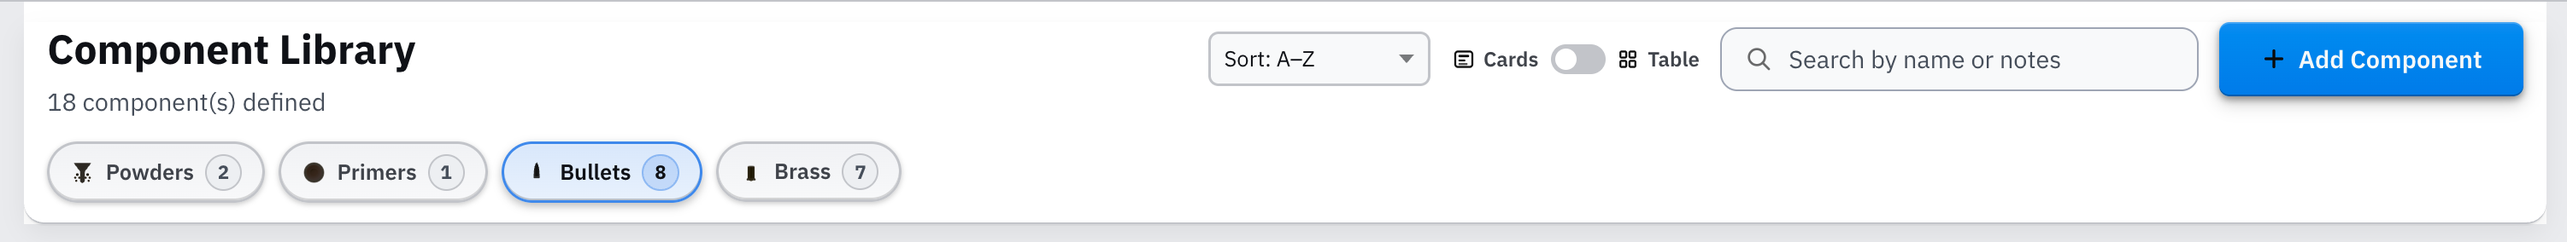
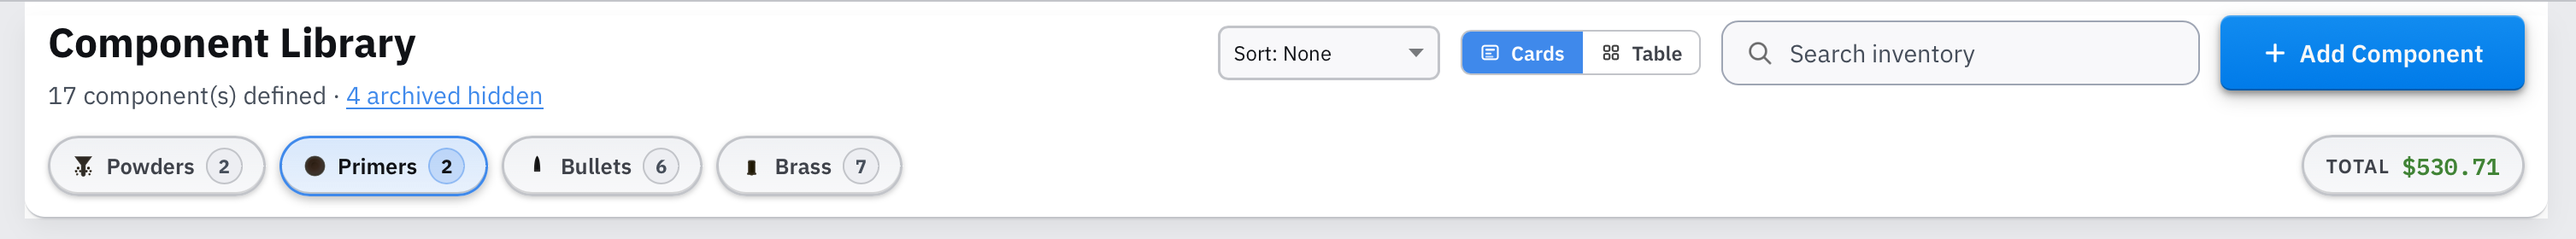
Updated images for version 2.16.1

diff --git a/README.md b/README.md
@@ -1,4 +1,4 @@
-# Reloading Tracker 2.16.0: User Guide
+# Reloading Tracker 2.16.1: User Guide
 
 Reloading Tracker is your complete bench-to-range companion. It starts as a production log: define your loads, record every pressing session with a unique lot number, and print a label for every box on your shelf.
 
@@ -7,7 +7,7 @@ It grows with you from there. Keep one inventory of your components. Work up new
 If you also care about costs, the app covers that too. Compare your reloads with factory ammunition, track how close you are to paying off your equipment, and see a side-by-side cost breakdown for any mix of loads. This part is optional; plenty of reloaders just want the log and the data.
 
 
-> **DOWNLOAD:** A desktop version is available from the releases page: [**latest version**](https://github.com/fmalpartida/reloading-cost-calculator/releases/tag/v2.16.0). All previous versions are available [here](https://github.com/fmalpartida/reloading-cost-calculator/releases).
+> **DOWNLOAD:** A desktop version is available from the releases page: [**latest version**](https://github.com/fmalpartida/reloading-cost-calculator/releases/tag/v2.16.1). All previous versions are available [here](https://github.com/fmalpartida/reloading-cost-calculator/releases).
 
 
 Want to try it out first?
@@ -227,7 +227,7 @@ Click **Add Ammo** in the top-right corner, or the **+** button in the **Reloads
 - Brass description, price, quantity, and how many times each case will be reloaded before replacement. The cost per round is divided by this reuse count.
 
 **Stock**
-- Rounds in hand come from the Journal. Each lot you press for this load adds rounds, and rounds you log against those lots in the Range Log are taken off. Archived lots don't count. The only field here is **Alert Below (rounds)**: when rounds in hand fall to or below this number, the card's stock pill turns orange and the table shows a **Low** badge.
+- Rounds in hand come from the Journal. Each lot you press for this load adds rounds, and rounds you log against those lots in the Range Log are taken off. Archived lots don't count. The only field here is **Alert Below (rounds)**: when rounds in hand fall to or below this number, the stock pill turns orange.
 
 **Sales Tax**
 - The sales tax percentage applied to your total component cost.
@@ -244,7 +244,7 @@ Click **Add Ammo** or the **+** button in the **Factory** section header. The Ed
 
 **Stock** *(optional)*
 - Tracks how many rounds of this ammo you have left. Enter the number of boxes you bought in **Add Boxes** and click **Add** (or just save). Boxes add up in the **Lifetime total** shown below the field. To fix a mistake, such as adding a box twice, enter a negative number and click **Add**. The total never goes below zero.
-- **Alert Below (boxes)**: optional threshold. When the rounds remaining fall to or below this many boxes, the card's stock pill turns orange and a **Low** badge appears in the table.
+- **Alert Below (boxes)**: optional threshold. When the rounds remaining fall to or below this many boxes, the stock pill turns orange.
 - Rounds remaining = *Lifetime total × Rounds per Box*, minus every round of this ammo logged in the Range Log. That includes sessions logged before you started tracking stock.
 - While stock is tracked, the **Live Preview** shows the boxes and rounds in hand, with a **Low** badge when you're below your alert. It updates as you type, before you save.
 - To skip stock tracking for this ammo, leave **Add Boxes** empty. Stock stays hidden until you add at least one box.
@@ -265,28 +265,31 @@ Click **Add Ammo** or the **+** button in the **Factory** section header. The Ed
 
 ### 2.3 Managing Ammo Entries
 
-Each ammo card has four action buttons in its top-right corner:
+Each ammo card and table row has these actions in its top-right corner:
 
 | Button | Action |
 |--------|--------|
 | ✏ Edit | Opens the entry in the Editor tab |
-| ⧉ Duplicate | Creates a copy of the entry (useful for variants of the same load) |
-| 🖨 Print | Opens the label print dialog for this load, without a pre-filled lot number or quantity |
-| 🗑 Delete | Permanently removes the entry |
+| 🖨 Print | For reloads, lets you print a label or the data sheet. Factory ammo opens its data sheet straight away. |
+| ⋯ More | **Duplicate** (useful for variants of the same load), **Set to** another status, and **Delete**. |
 
-Click the **▸ / ▾** chevron on the left of the action buttons to expand a card and see the full component cost breakdown.
+Delete asks you to confirm and names the load. If the load has Journal history, the dialog also offers **Retire instead**, which hides it and keeps that history.
+
+Click the **▸ / ▾** chevron on the left of the action buttons to expand a card and see the full component cost breakdown. Click the small arrow at the left of the **Reloads** or **Factory** header to collapse that whole section; the app remembers it.
 
 Use the **Search** box to filter cards by name, caliber, type, or component name.
 
 When the **Reloads** or **Factory** section holds more than one caliber, a **caliber filter** appears in its header. Each section filters on its own: you can show only your 6.5 Creedmoor reloads and still see all factory ammo. The filter works with search and the retired toggle, and the count at the top follows it. If nothing is left to show, click **Clear Filters** to reset the search and both filters.
 
-Switch between **Card** and **Table** view with the toggle next to the search box. Table view is denser and easier to scan when you have many entries.
+Switch between **Cards** and **Table** with the buttons next to the search box. Table view is denser and easier to scan when you have many entries. In card view, the sort menu picks both the field and the direction, for example **Price: low to high**. In table view, click a column header to sort.
+
+When any ammo is at or below its alert, or out of stock, a **Low stock** tag appears under the title. Click it to see only what you need to press or buy.
 
 **Stock display**
 
 Ammo that tracks stock shows a **stock pill** on the card and a **Stock** column in table view. Factory ammo shows rounds and boxes left, e.g. *250 rds (5 boxes) left* (see [2.2](#22-adding-a-factory-ammo-entry)). Reloads show the rounds left in their active Journal lots, e.g. *240 rds left*, which matches the Journal's **Remaining** column (see [2.1](#21-adding-a-reload-entry)). Ammo with no stock tracked shows nothing.
 
-On the card, the pill sits at the right end of the card. Its color shows where you stand: **green** while you have stock, **orange** at or below your **Alert Below** threshold, and **red** at zero. In table view, a **Low** badge marks the threshold. Hover over the pill to see how the number is worked out.
+On the card, the pill sits at the right end of the card. Its color shows where you stand: **green** while you have stock, **orange** at or below your **Alert Below** threshold, and **red** at zero. The table view shows the same pill. Hover over the pill to see how the number is worked out.
 
 ![Screenshot: Expanded ammo card showing component breakdown](images/ammo-viewer.png)
 
@@ -316,14 +319,14 @@ Every ammo entry has a **status** that shows where it is in your development cyc
 | **Retired** | Recipe superseded or no longer in use. Hidden from default views but preserved in all history and journal entries. |
 
 **Changing the status**
-- In card view: expand the card (▸) and use the **Status** selector at the top of the expanded body.
+- In card view: open the card's **⋯** menu and pick **Set to** a status, or expand the card (▸) and use the **Status** selector. Each status in the selector has a one-line description.
 - In table view: use the **Status** dropdown in the Status column.
 - In the Editor: the Status field appears in the Ammo Information section next to the load type.
 
 ![Screenshot: Load Editor showing expanded load status](images/load-editor-status.png) 
 
 **Retired loads**
-Retired entries are hidden by default. When a section has retired entries, a **"N retired"** link appears in its header bar. Click it to show them; click **"hide retired"** to hide them again.
+Retired entries are hidden by default. When a section has retired entries, a **"N retired"** link appears in its header bar. Click it to show them; click **"hide retired"** to hide them again. If every load is retired, the page says so and offers a button to show them.
 
 ![Screenshot: Ammo card showing expanded load status](images/load-card-status.png)
 
@@ -424,12 +427,12 @@ When you print a load's **Data Sheet** from My Ammo, it includes the Charge Work
 
 ### 2.4 Default Taxes & Fees
 
-The **Default Taxes** panel at the top of My Ammo sets the tax values filled in on every new entry.
+The **Default Taxes** panel at the top of My Ammo sets the tax values filled in on every new entry. It shows as a one-line summary; click **Edit** to change the values and **Done** to fold it away again.
 
 - **Reload**: sales tax percentage applied to reload component costs.
 - **Factory**: sales tax %, excise tax %, fixed fee amount, and the number of rounds that fee covers.
 
-Click **Apply to All** to apply the current defaults to every existing entry.
+Click **Apply to All** to apply the current defaults to every existing entry. You'll be asked to confirm, with the number of loads it will change.
 
 ![Screenshot: Default Taxes panel](images/default-taxes.png)
 
@@ -470,7 +473,7 @@ Factory entries take the same gauge, shell length, and projectile, plus optional
 
 There are eight component types: **Powder**, **Primer**, **Bullet**, and **Brass** for cartridges, plus **Hull**, **Wad**, **Shot**, and **Slug** for shotshells. Each type has its own section, with a colored edge that matches its icon.
 
-**Filter tags** at the top narrow the list to one type. Click a tag to filter; click it again to clear.
+**Filter tags** at the top narrow the list to one type. Click a tag to filter; click it again to clear. When anything is at or below its alert, or out of stock, a **Low stock** tag appears too. Click it to see only what you need to buy.
 
 ![Screenshot: My Components: filter tags and grouped sections](./images/inventory-filter-tags.png)
 
@@ -478,7 +481,7 @@ Use the **Search** box to find components by name or notes.
 
 The **Bullets**, **Brass**, and **Hulls** sections get a **caliber filter** in their header (gauge for hulls) once they hold more than one caliber. Each section filters on its own, and its cash total follows the selected caliber.
 
-Like My Ammo, My Components has **Card** and **Table** views.
+Like My Ammo, My Components has **Cards** and **Table** views. Click the small arrow at the left of a section header to collapse it; the app remembers it.
 
 ### 3.1 Adding a Component
 
@@ -540,7 +543,7 @@ How much you have now. The unit depends on the type:
 Leave it blank to skip stock tracking. Only components with stock set can be deducted from the Journal.
 
 **Alert below** *(optional)*  
-A low-stock threshold, in the same unit as **Stock on hand**. At or below it, the card shows a **Low** badge. It's only a reminder; nothing is blocked.
+A low-stock threshold, in the same unit as **Stock on hand**. At or below it, the stock pill turns orange. It's only a reminder; nothing is blocked.
 
 **Lot #** *(optional)*  
 The manufacturer's lot code for the batch you have on hand, e.g. *VG-2291*. New Journal entries record it automatically (see [5.1](#51-logging-a-session)), so update it when you open a new jug of powder or box of primers.
@@ -552,10 +555,9 @@ Click **Save**. The card appears in its section right away.
 Each component card shows:
 - Component name and type icon
 - **Price**: the cost per unit (e.g. *$22.50/lb*, or *$0.16 ea* for a primer). The form keeps the price and quantity you entered; the card and table show only the per-unit cost.
-- **Stock**: quantity on hand, if you entered one. Powder shows four decimal places; other types show a whole number. A **Low** badge appears at or below the threshold.
+- **Stock**: a pill at the top of the card, if you track stock. It's **green** while you have stock, **orange** at or below your alert, and **red** at zero, the same as My Ammo. Powder and shot show two decimals; hover over the pill for the exact amount and your alert level.
 - **Lot**: the lot number on hand, shown only when one has been entered.
-- Brass **Reloads** count (brass cards only)
-- Bullet **caliber**, **diameter**, **weight**, and **OAL** (bullets only)
+- A one-line spec summary under the name, e.g. *124 gr · .355 · 9mm Luger · OAL 1.169 in* for a bullet, or *9mm Luger · 5× reloads* for brass
 - Notes (if any)
 
 Brass with **Consistency & Fit** or **Annealing** data shows a **Details** row with an icon for each: a ruler for Consistency & Fit, a flame for Annealing. Hover over an icon to see the details.
@@ -564,14 +566,13 @@ Brass with **Consistency & Fit** or **Annealing** data shows a **Details** row w
 
 ### 3.2 Managing Components
 
-Each component card has four action buttons:
+Each component card and table row has these actions:
 
 | Button | Action |
 |--------|--------|
 | ✏ Edit | Opens the component for editing. The type can't be changed. |
-| ⧉ Duplicate | Makes a copy with *(copy)* added to the name, handy when a component comes in several package sizes. A copy of an archived component is active. |
 | 📦 Archive | Retires the component without deleting it. Becomes **Restore** on an archived component. See below. |
-| 🗑 Delete | Removes the component for good. Loads linked to it keep their last values but are no longer linked. |
+| ⋯ More | **Duplicate** makes a copy with *(copy)* added to the name, handy when a component comes in several package sizes. **Delete** removes it for good; linked loads keep their last values but are no longer linked. |
 
 ![Screenshot: Inventory card action buttons](./images/inventory-card-actions.png)
 
@@ -583,19 +584,19 @@ When anything is archived, the count under the page title ends with an **"N arch
 
 ![Screenshot: Archived components, showing archived component tag and link to hide them at the top.](./images/archived-components.png)
 
-In **Table view**, the **Stock** column shows the quantity on hand with its unit (*primers*, *rounds*, *cases*, *hulls*, *wads*, *slugs*, *lb*, or *kg*), or a dash if not set. A **Low** badge appears at or below the threshold. The **Lot #** column shows the lot number, or a dash.
+In **Table view**, the **Stock** column shows the same colored pill, with its unit (*primers*, *rounds*, *cases*, *hulls*, *wads*, *slugs*, *lb*, or *kg*), or a dash if not set. The **Lot #** column shows the lot number, or a dash.
 
 For brass, an **Info** column holds the same Consistency & Fit and Annealing icons as the cards.
 
 **Sorting**
 
-In **Card view**, the **Sort** dropdown orders components by **A–Z**, **Price**, **Stock**, or **None** (the order you added them). The arrow next to it flips the direction.
+In **Card view**, the sort menu orders components by name, price, or stock, in either direction (for example **Stock: low to high**), or **None** (the order you added them).
 
 In **Table view**, click the **Name**, **Price**, or **Stock** column header instead. Each click cycles through ascending, descending, and no sort. Switching views resets the sort to **None**.
 
 **Photo thumbnails**
 
-Components with a photo (see [3.1](#31-adding-a-component)) show it as a thumbnail in place of the type icon on the card, or in the table's Photo column. Hover over it to see the name, type, price, stock, lot number, and key specs.
+Components with a photo (see [3.1](#31-adding-a-component)) show it as a thumbnail in place of the type icon on the card, or in the table's Photo column. Hover over it, or tab to it and press Enter, to see the name, type, price, stock, lot number, and key specs.
 
 ![Screenshot: My Components card and table showing a photo thumbnail and hover popup](./images/inventory-photo-popup.png)
 
@@ -643,14 +644,14 @@ Click **Add Firearm** in the top-right corner. The dialog has a **Firearm** sect
 | Field | Required | Description |
 |-------|----------|-------------|
 | **Name** | Yes | A name for the firearm, e.g. *Remington 700 SPS*, *Glock 17 Gen 5*. |
+| **Caliber** | No | The cartridge it's chambered in, e.g. *.308 Win*, *9mm Luger*, *12 ga*. The list follows the Firearm Type. Used for grouping and the caliber filter chips. |
 | **Firearm Type** | No | Broad category: **Rifle**, **Handgun**, **Shotgun**, or **Other**. |
 | **Action Type** | No | Operating mechanism: **Bolt**, **Semi-Auto**, **Lever**, **Pump**, **Single Shot**, **Revolver**, or **Other**. |
-| **Caliber** | No | The cartridge it's chambered in, e.g. *.308 Win*, *9mm Luger*, *12 ga*. The list follows the Firearm Type. Used for grouping and the caliber filter chips. |
 | **Barrel Length** | No | Free text, e.g. *24 in*, *16.5"*. |
 | **Twist Rate** | No | e.g. *1:10*, *1:8*. Matters for bullet stability. |
-| **Photo** | No | Upload a photo (iPhone HEIC photos are converted automatically). It's shown as a thumbnail wherever the firearm appears (see 4.4 and 4.5). Click **Remove** to clear it. |
 | **Serial Number** | No | For your own records. |
 | **Price** | No | What you paid for the firearm. |
+| **Photo** | No | Upload a photo (iPhone HEIC photos are converted automatically). It's shown as a thumbnail wherever the firearm appears (see 4.4 and 4.5). Click **Remove** to clear it. |
 
 **Optics** *(optional)*
 
@@ -667,7 +668,7 @@ Fields for the scope or sight mounted on the firearm:
 | **Turret Units** | **MOA** or **MRAD**. |
 | **Zero Distance** | Free text, e.g. *100 yd*. |
 
-Leave the Optics fields blank if there's no optic or you don't want to track it. The app then hides optics for that firearm.
+The Optics section starts closed; click it to open. It opens by itself when you edit a firearm that already has optic details. Leave it blank if there's no optic, and the app hides optics for that firearm.
 
 **Notes**
 
@@ -675,18 +676,17 @@ Any other reference: known issues, purchase date, etc.
 
 Click **Save**. The firearm shows up in the list and in the Range Log's firearm list right away.
 
-
 ![Screenshot: Firearm form dialog showing the Firearm section (Name, Type, Action, Caliber, Barrel, Twist, Photo, Serial, Price) and the Optics section (Manufacturer, Model, Type, Magnification, Focal Plane, Reticle, Turret Units, Zero Distance)](./images/firearm-form-dialog.png)
 
 ### 4.2 Managing Firearm Profiles
 
-Each firearm profile (in both card and table view) has three action buttons:
+Each firearm profile (in both card and table view) has these actions:
 
 | Button | Action |
 |--------|--------|
 | ✏ Edit | Opens the profile for editing. If you rename the firearm, its past Range Log sessions follow the new name. |
 | 📦 Archive | Retires the firearm without deleting it. Becomes **Restore** on an archived firearm. See below. |
-| 🗑 Delete | Removes the profile for good. Past Range Log sessions keep the firearm's name. |
+| ⋯ More | **Delete** removes the profile for good. Past Range Log sessions keep the firearm's name. |
 
 You're asked to confirm before deleting.
 
@@ -706,23 +706,23 @@ When at least one firearm has a caliber, **caliber filter chips** appear below t
 
 **Search**
 
-The **Search** box filters by name, caliber, and notes. The count below the title shows how many match.
+The **Search** box filters by name, caliber, type, action, serial number, optic make and model, and notes. The count below the title shows how many match.
 
 Search and chips work together: the list shows the firearms that match both.
 
 ### 4.4 Card and Table Views
 
-The **Cards / Table** toggle switches the layout. The tab remembers your choice.
+The **Cards** / **Table** buttons switch the layout. The tab remembers your choice. Click the small arrow at the left of a caliber group to collapse it.
 
-**Card view** (default): each firearm is a compact tile with its photo (or a firearm icon) and name in the header. The body shows only the fields you filled in: Type and Action badges, Barrel and Twist, then Serial, Optic, and Price. Long notes are shortened; hover over the note to read it all.
+**Card view** (default): each firearm is a compact tile with its photo (or a firearm icon) and name in the header. The body shows only the fields you filled in: Type and Action badges, Barrel and Twist, then Serial, Optic, Price, and **Fired**: the rounds logged with this firearm in the Range Log and the date you last shot it. Long notes are shortened; hover over the note to read it all.
 
-**Table view**: one row per firearm, with columns for Photo, Name, Type, Action, Barrel, Twist, Serial, Optic, and Price. Notes show as a short preview under the name; hover over it to read it all. This view is easier to scan when you have many firearms.
+**Table view**: one row per firearm, with columns for Name (with its photo), Type, Action, Barrel, Twist, Optic, and Fired (rounds and last range date). Serial number and price are on the card. Notes show as a short preview under the name; hover over it to read it all. On a narrow screen the table scrolls sideways and the Name column stays in view.
 
 **Optic**: when a firearm has optic details, a scope icon appears in the Optic column (table) or Optic row (card). Hover over it to see the manufacturer, model, type, magnification, focal plane, reticle, turret units, and zero distance.
 
 **Photo thumbnails**: hover over a firearm's thumbnail to see its full datasheet (see 4.5).
 
-In both views, profiles are grouped by caliber. Firearms without a caliber appear in an **Uncategorized** group at the bottom.
+In both views, profiles are grouped by caliber. Firearms without a caliber appear in an **Uncategorized** group at the bottom. If every firearm is archived, the page says so and offers a button to show them.
 
 ![Screenshot: Firearms tab table view showing rows grouped by caliber, with Optic column and notes preview under the name](./images/firearms-table-view.png)
 
@@ -776,10 +776,9 @@ Each entry row has action buttons on the right:
 |--------|--------|
 | ☆ Star | Marks the entry as a reference lot (starred entries show a coloured accent) |
 | ✏ Edit | Opens the entry for editing; the lot number is fixed and cannot be changed |
-| ⧉ Duplicate | Copies the entry with the next lot number and the same component lots, handy for pressing another batch at the same settings |
 | 🖨 Print | Opens the label print dialog pre-filled with the lot number and quantity |
 | 📦 Archive | Moves the entry out of the main list. Nothing is lost, and you can restore it any time. |
-| 🗑 Delete | Permanently removes the entry |
+| ⋯ More | **Duplicate** copies the entry with the next lot number and the same component lots, handy for pressing another batch at the same settings. **Delete** removes it for good. |
 | 📦 Deduct from stock | Shown only when the load has a linked component with stock set. See below. |
 
 **Deducting inventory stock from a journal entry**
@@ -913,7 +912,7 @@ The **Imperial / Metric** toggle in the page header switches how velocity, group
 
 ### 6.2 Managing Range Sessions
 
-Sessions are listed newest first. Click a row to **expand** it and see each lot.
+Sessions are listed newest first. Click a row to **expand** it and see each lot. Lots that have a target analysis show a blue edge and a **Target** chip; click the chip to open that target.
 
 **Best group marking**: for each firearm, the lot with the smallest group gets a small gold bullseye on its lot badge, in both the collapsed and expanded views. It moves automatically when you log a better group.
 
@@ -925,10 +924,9 @@ Each session row has action buttons on the right:
 |--------|--------|
 | ★ Star | Marks the session as a reference (see [Starring Sessions](#63-starring-sessions)) |
 | ✏ Edit | Opens the session for editing, including adding and removing lots |
-| ⧉ Duplicate | Copies the session, handy for regular outings with the same firearm at the same place |
 | 🎯 Target | Opens the linked target in the Targets tab. Shown only when a target is linked. |
 | 🖨 Print | Prints the session's data sheet. A linked target adds its marked-up image and key statistics. |
-| 🗑 Delete | Removes the session and all its lots for good |
+| ⋯ More | **Duplicate** copies the session, handy for regular outings with the same firearm at the same place. **Delete** removes the session and all its lots for good. |
 
 Use the **Search** box at the top of the page to filter sessions by firearm, date, lot number, or load name.
 
@@ -1391,7 +1389,7 @@ The left column lists your reload and factory entries.
 
 By default, both use **checkboxes**. Check the entries to include in the averages; if none are checked, **all entries of that type are included**. Your selection and round counts are saved.
 
-Each entry fits on one line: checkbox, name, and cost per round. In **Rounds** mode a reload shows its name, round count, and journal rounds on the first line, with the cost per round and total rounds below, aligned right. A small thumbnail appears next to the name: the photo of factory ammo, or the photo of a reload's linked bullet (see [3.3](#33-linking-inventory-to-loads)).
+Each entry fits on one line: checkbox, name, and cost per round. In **Rounds** mode a reload shows its name on the first line. Below it you see the rounds you typed, the Journal rounds (the blue **+N**), and the total, then the cost per round. The total cost of those rounds sits on the right, so you can compare loads down the list. Reloads with no rounds are dimmed and show a dash instead of a total. A small thumbnail appears next to the name: the photo of factory ammo, or the photo of a reload's linked bullet (see [3.3](#33-linking-inventory-to-loads)).
 
 Click a load's name to open its details: caliber, COAL/CBTO, and for reloads the powder, bullet, primer, and brass, each with its photo from My Components when it has one (the type icon otherwise). Factory ammo shows its photo. This is the same dialog you get by clicking a load name in the Journal.
 
